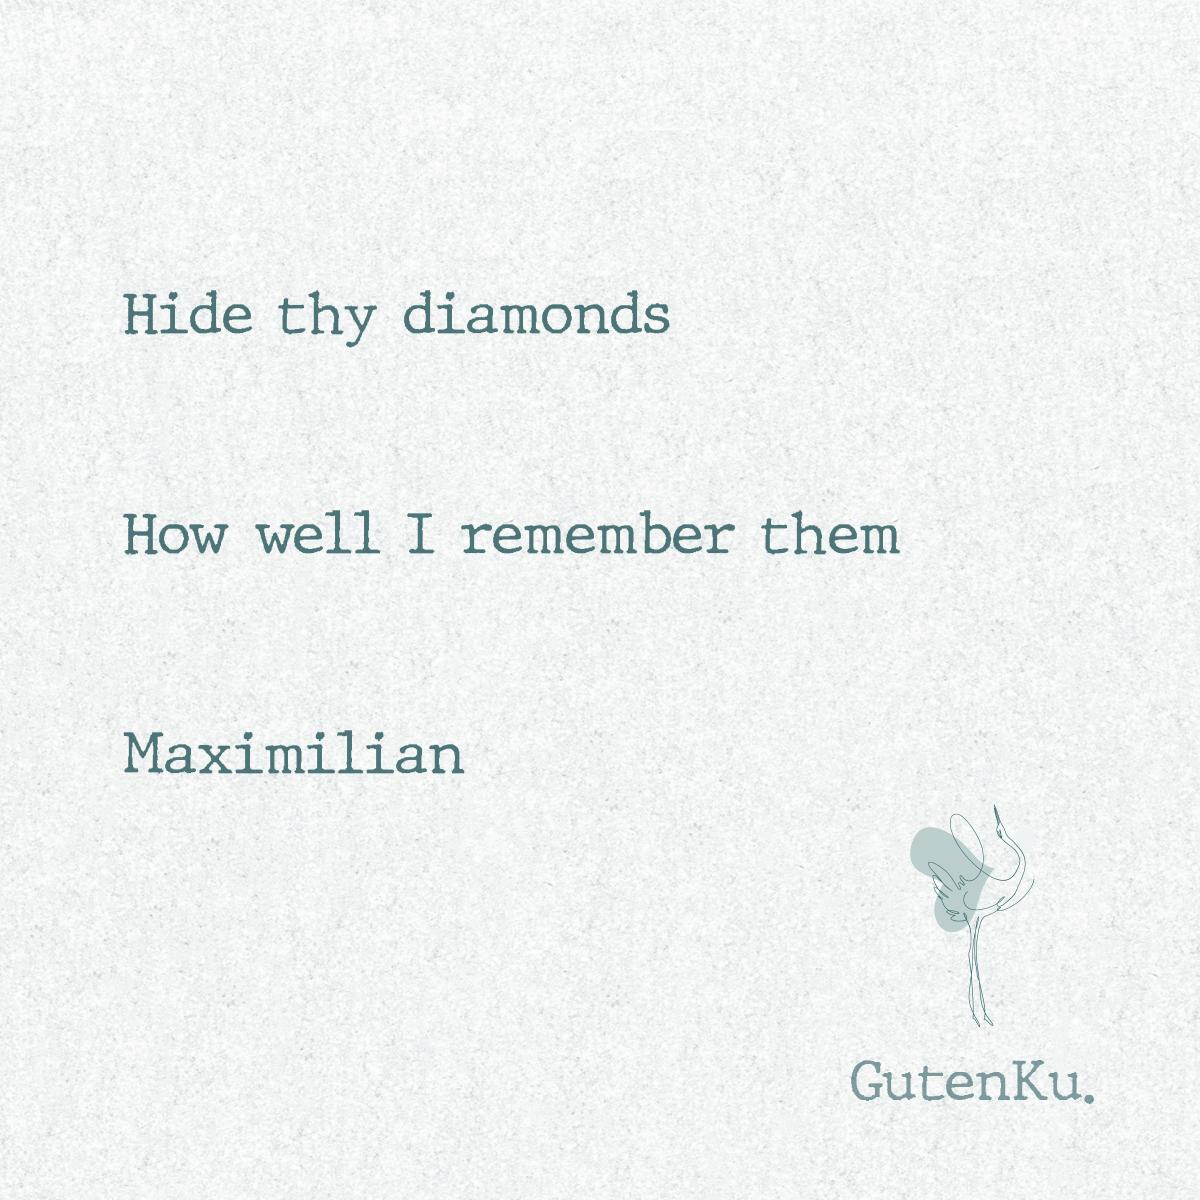
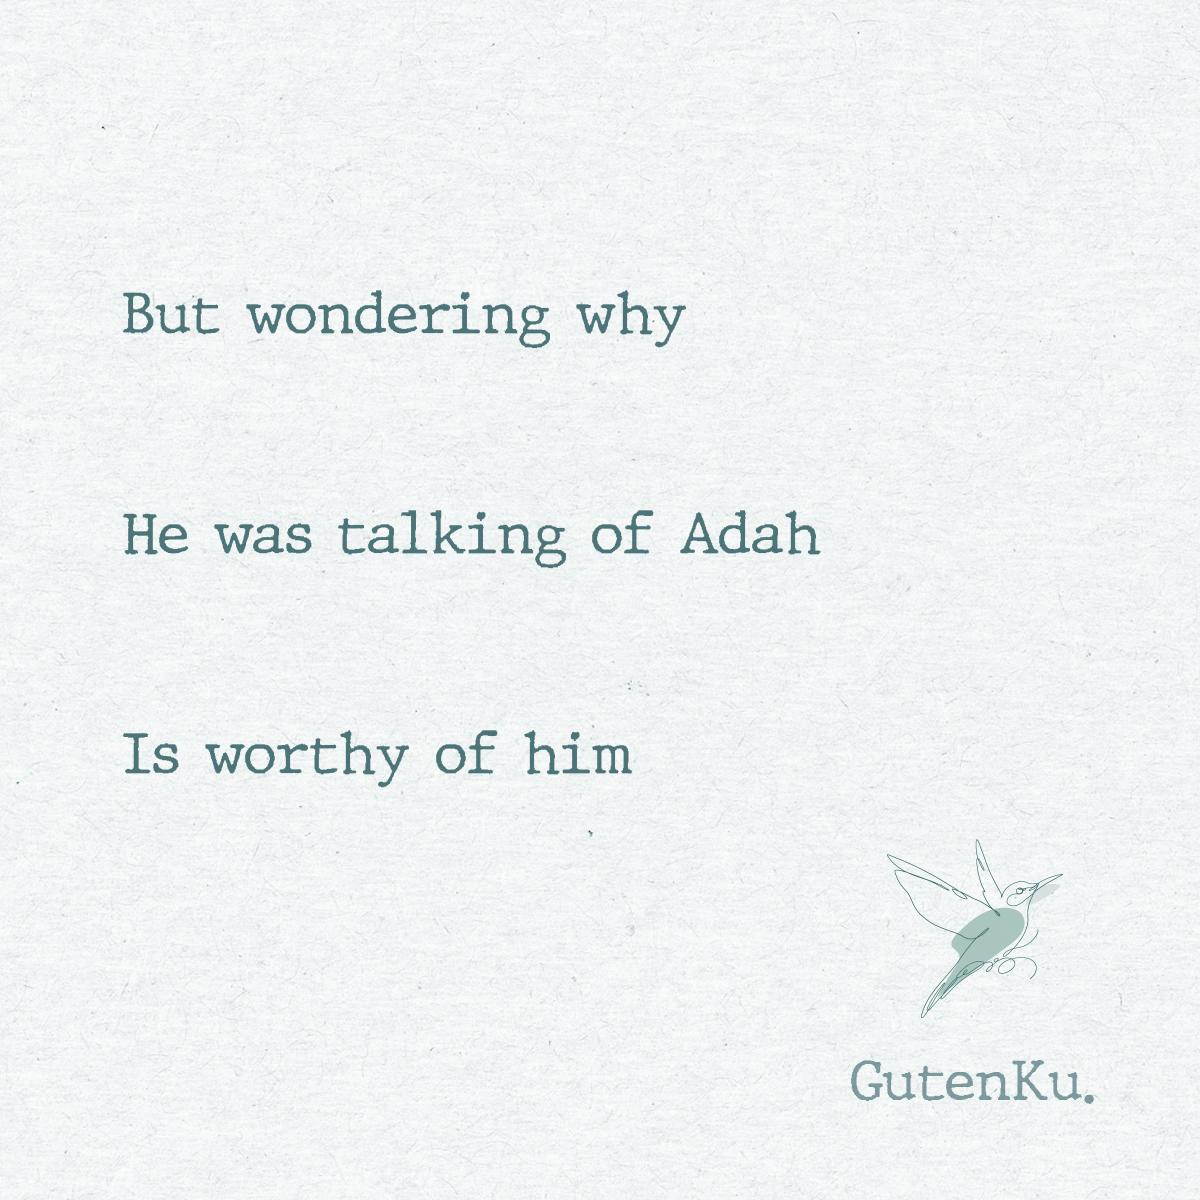
[Readme] Updated Daily Haiku Card

diff --git a/README.md b/README.md
@@ -4,9 +4,9 @@ A Haiku generator based on a selection of books from [Project Gutenberg](https:/
 
 ## Daily Haiku Card
 
-<img src="/doc/img/daily_haiku_card.jpg?t=1680393601" width="300" alt="Daily Haiku Card">
+<img src="/doc/img/daily_haiku_card.jpg?t=1680566401" width="300" alt="Daily Haiku Card">
 
-Last Snapshot: `Sun, 02 Apr 2023 00:00:01 +0000`
+Last Snapshot: `Tue, 04 Apr 2023 00:00:01 +0000`
 
 Want more? Visit [🔗gutenku.xyz](https://gutenku.xyz)
 
